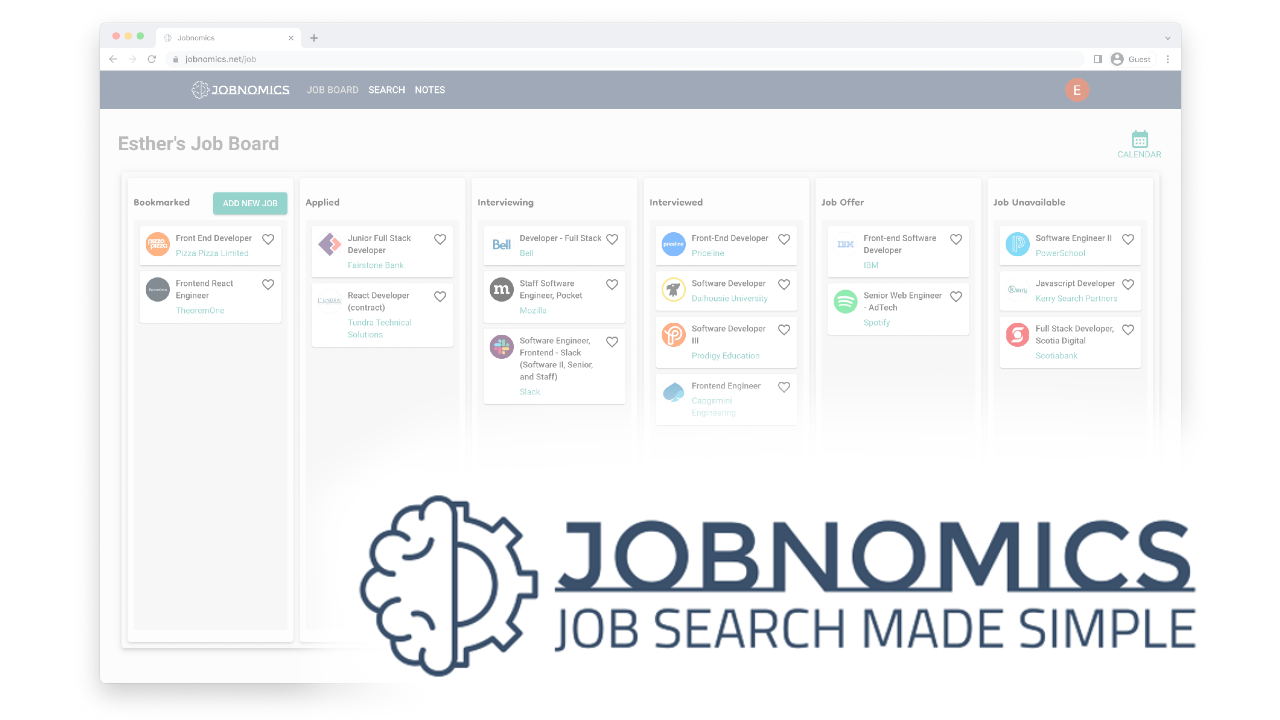
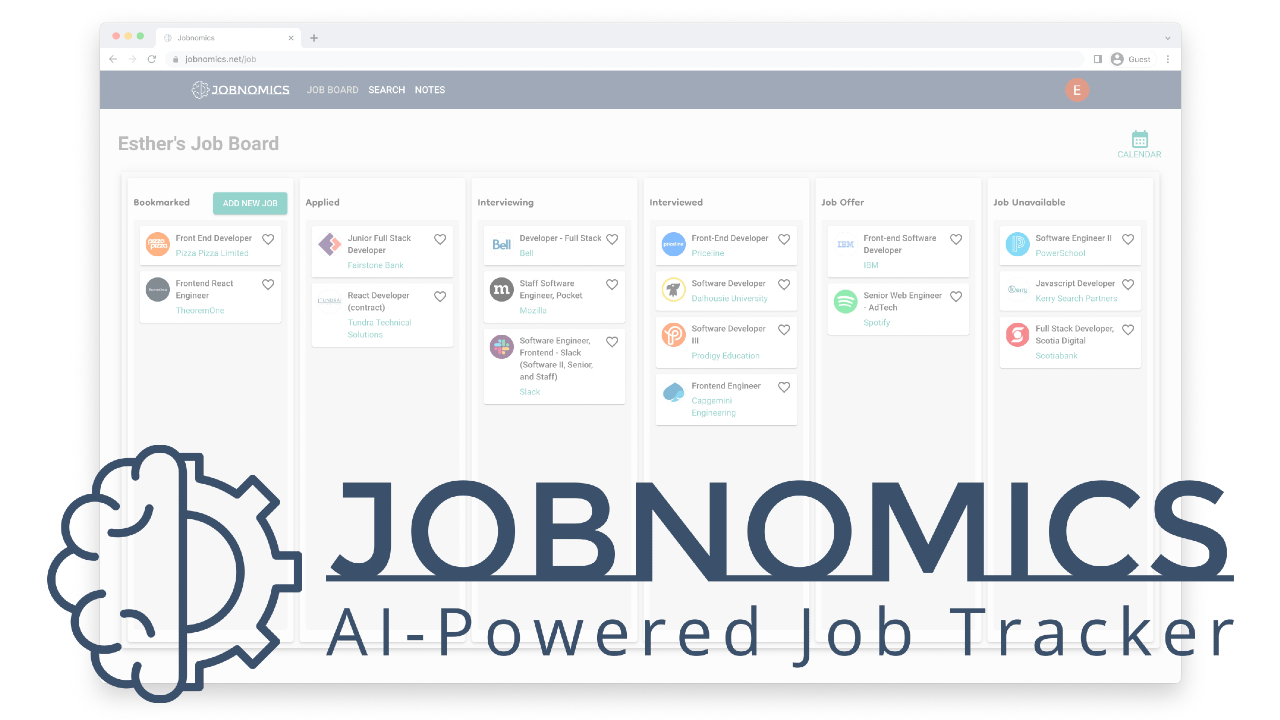
New thumbnail

Changed region(s): [[0.0312, 0.6111, 0.9688, 0.9778]]

diff --git a/public/index.html b/public/index.html
@@ -14,11 +14,11 @@
     <meta property="og:title" content="JOBNOMICS" />
     <meta
       property="og:image"
-      content="https://i.ibb.co/ggTtTRY/thumbnail.jpg"
+      content="https://i.ibb.co/xYjQrtK/thumbnail.jpg"
     />
     <meta
       name="twitter:image"
-      content="https://i.ibb.co/ggTtTRY/thumbnail.jpg"
+      content="https://i.ibb.co/xYjQrtK/thumbnail.jpg"
     />
     <meta property="og:image:type" content="image/jpg" />
 
